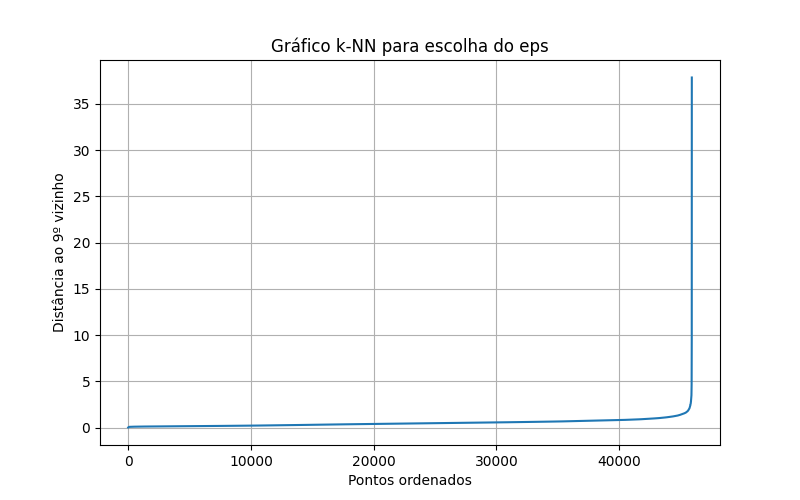
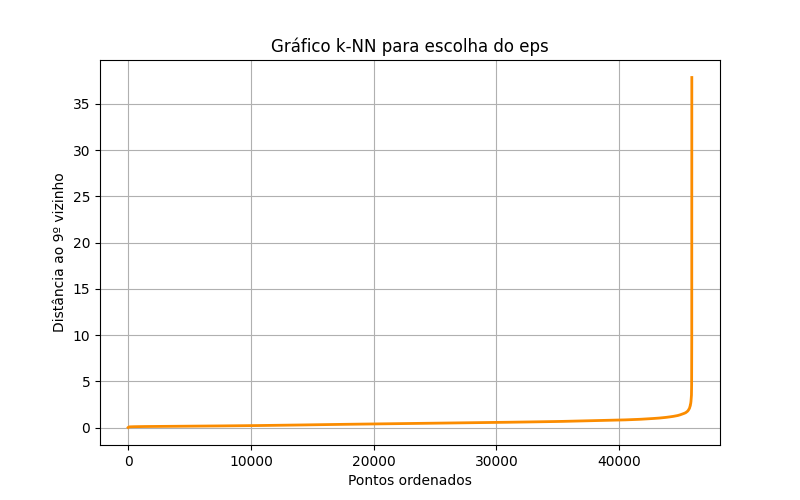
mudança nos gráficos

Changed region(s): [[0.1562, 0.15, 0.875, 0.87]]

diff --git a/analysis/analysis.py b/analysis/analysis.py
@@ -309,7 +309,7 @@ distancias_k = distancias[:, -1]
 distancias_ordenadas = np.sort(distancias_k)
 
 plt.figure(figsize=(8,5))
-plt.plot(distancias_ordenadas)
+plt.plot(distancias_ordenadas, color='#FB8C00', linewidth=2)
 plt.title('Gráfico k-NN para escolha do eps')
 plt.xlabel('Pontos ordenados')
 plt.ylabel(f'Distância ao {k}º vizinho')
@@ -323,25 +323,28 @@ plt.show()
 
 # zoom na região do cotovelo para escolher melhor
 plt.figure(figsize=(8,5))
-plt.plot(distancias_ordenadas)
+
+plt.plot(distancias_ordenadas, color='#FB8C00', linewidth=2)
+
 plt.title('Gráfico k-NN - zoom no cotovelo')
 plt.xlabel('Pontos ordenados')
 plt.ylabel(f'Distância ao 9º vizinho')
+
 plt.ylim(0, 5)      
 plt.xlim(38000, 46000)  
+
 plt.grid(True)
 
 plt.savefig("../img/grafico_knn_eps_zoom.png")    
 
 plt.show()
-
 # %%
 
-for eps in [1.5, 2.0, 2.5, 3.0]:
-    labels = DBSCAN(eps=eps, min_samples=9).fit_predict(scaled_data)
-    n_clusters = len(set(labels)) - (1 if -1 in labels else 0)
-    n_outliers = (labels == -1).sum()
-    print(f"eps={eps} → clusters: {n_clusters} | outliers: {n_outliers}")
+# for eps in [1.5, 2.0, 2.5, 3.0]:
+#     labels = DBSCAN(eps=eps, min_samples=9).fit_predict(scaled_data)
+#     n_clusters = len(set(labels)) - (1 if -1 in labels else 0)
+#     n_outliers = (labels == -1).sum()
+#     print(f"eps={eps} → clusters: {n_clusters} | outliers: {n_outliers}")
 
 # %%
 
@@ -352,13 +355,22 @@ df_sem_outliers['cluster_dbscan'] = labels
 
 print(df_sem_outliers['cluster_dbscan'].value_counts())
 # %%
+
+cores = [
+    '#F9A825',  
+    '#F57F17',  
+    '#EF6C00',  
+    '#BF360C',  
+    '#5D2A00'  
+]
+
 sns.scatterplot(
      data=df_sem_outliers,
      x='longitude',
      y='latitude',
      hue='cluster_dbscan',
      style='cluster_dbscan',
-     palette='viridis',
+     palette=cores,
      s=40
  )
 
@@ -392,7 +404,7 @@ for k in K:
     kmeans.fit(scaled_data)
     inercia.append(kmeans.inertia_)
 
-plt.plot(K, inercia, marker='o')
+plt.plot(K, inercia, marker='o', color='#FB8C00')
 plt.xlabel('Número de clusters')
 plt.ylabel('Inércia')
 plt.title('Método do Cotovelo')
